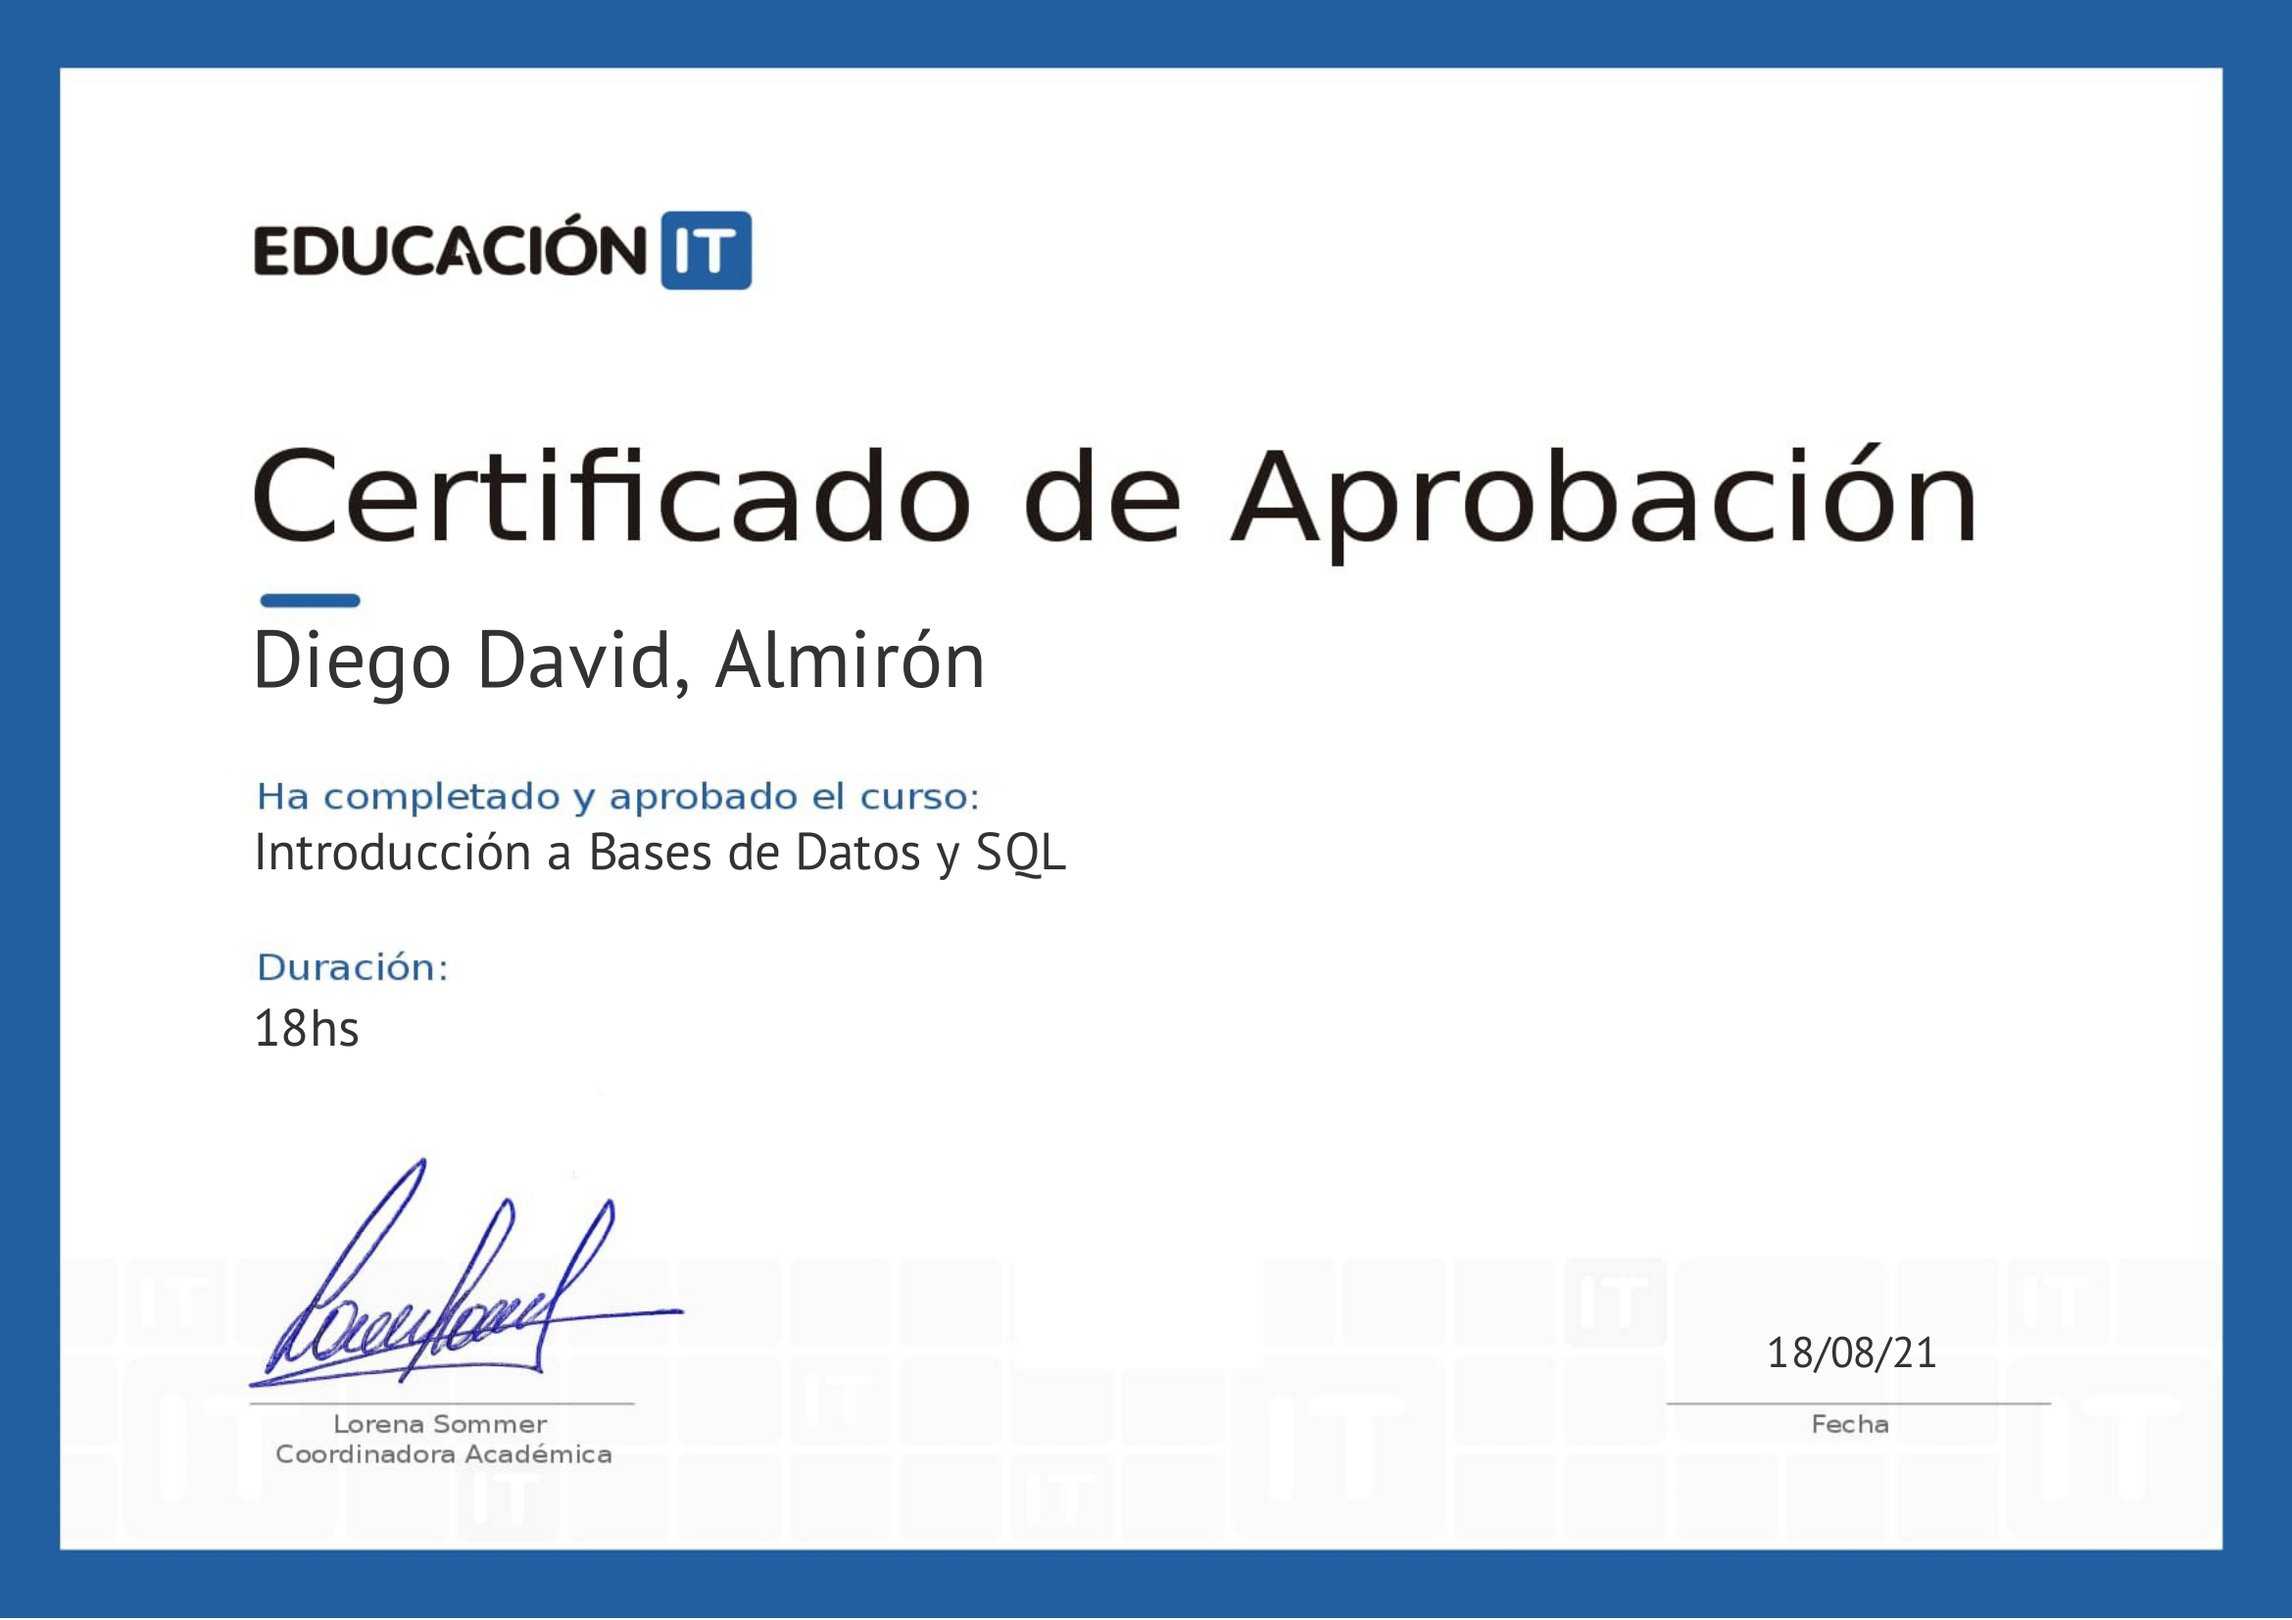
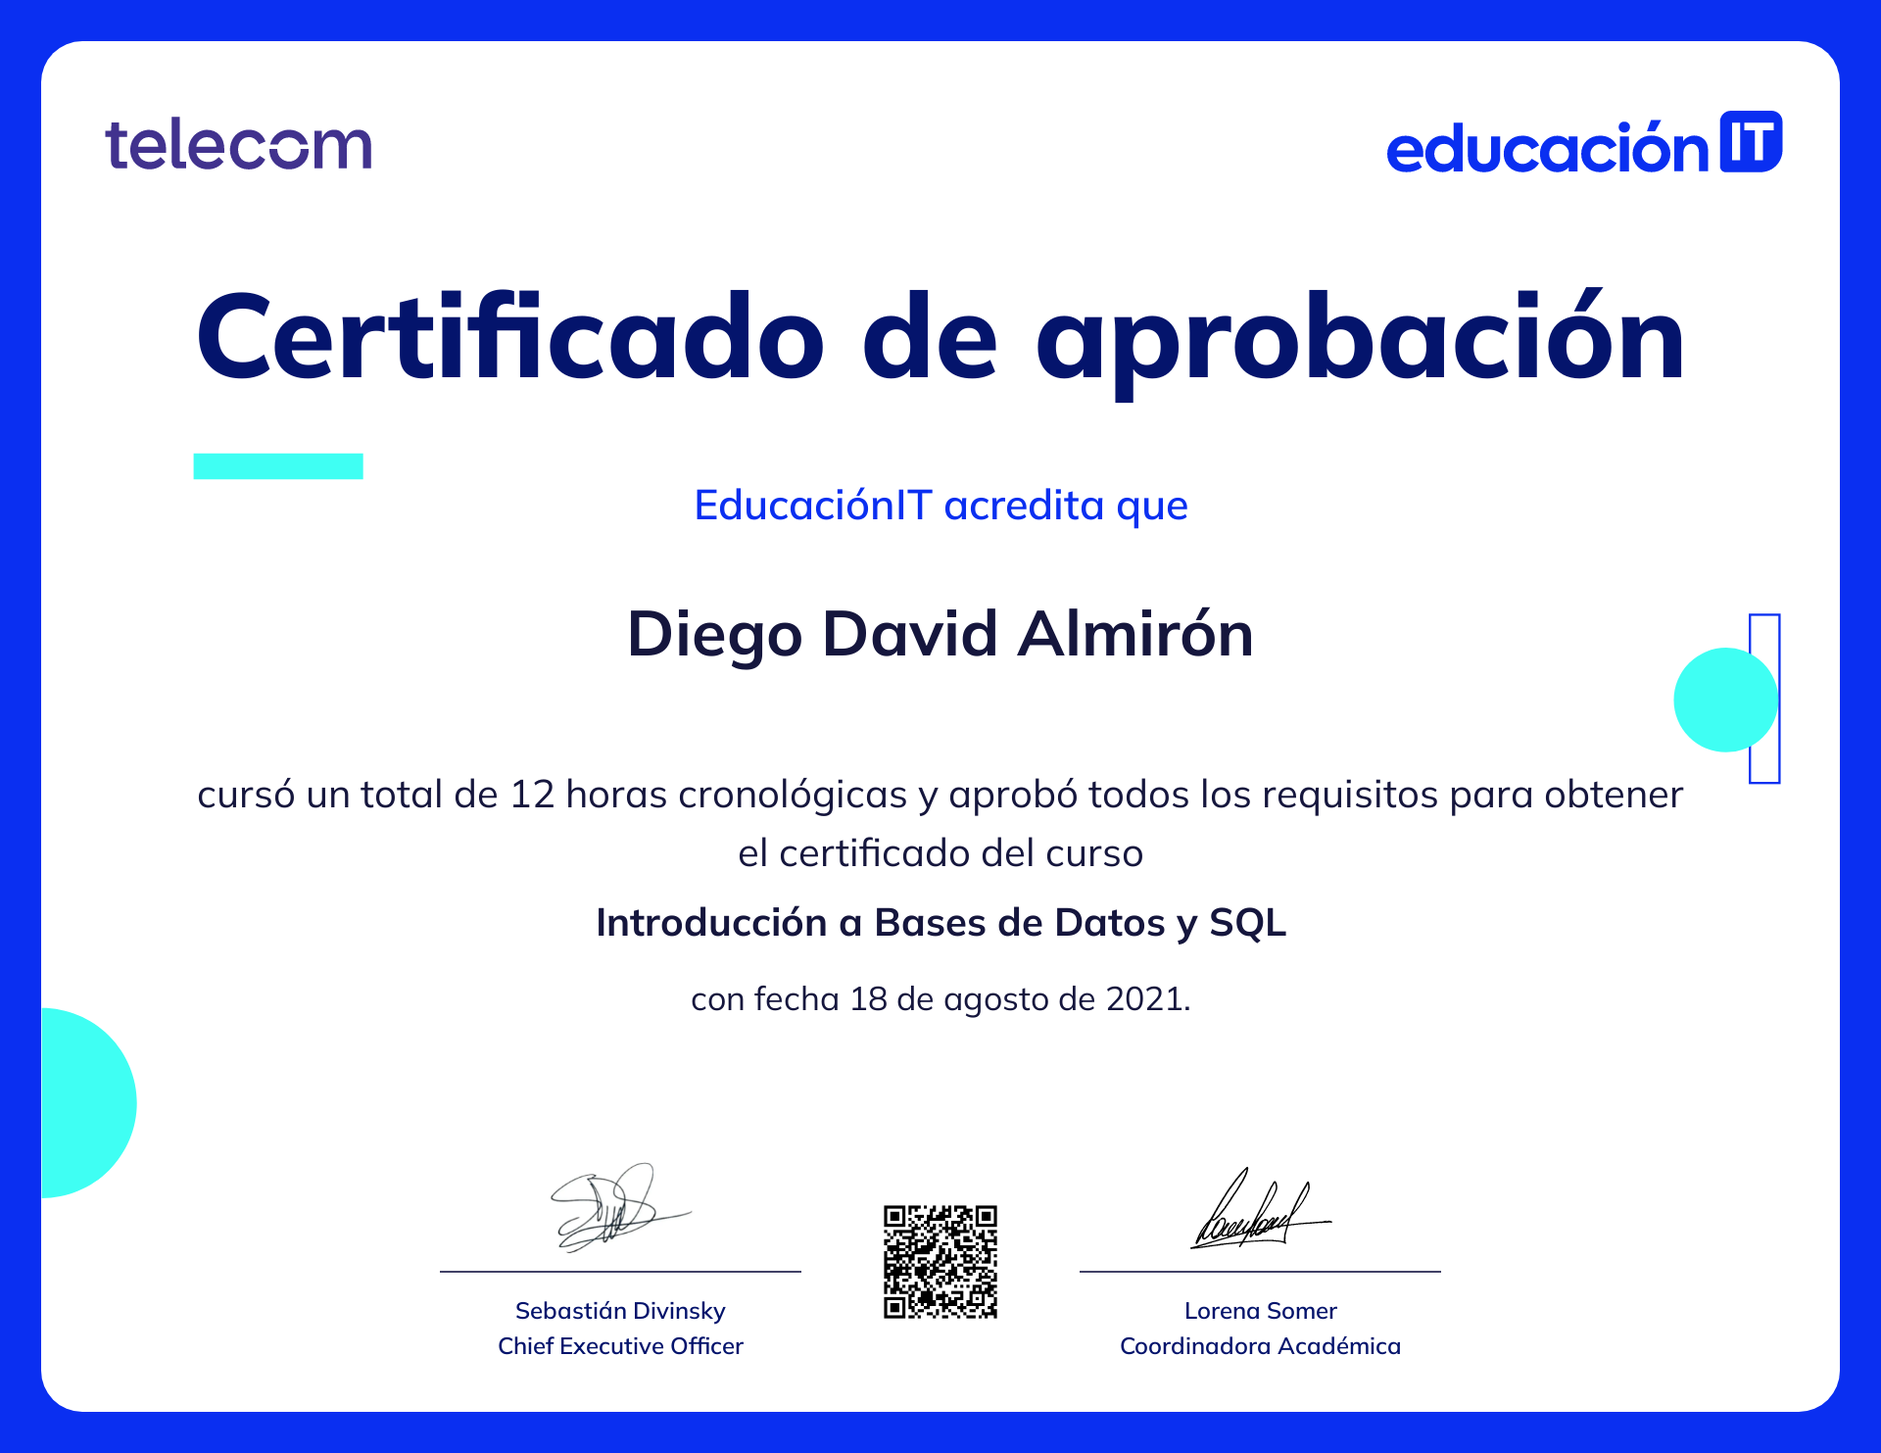
certificados actualizados

diff --git a/index.html b/index.html
@@ -123,10 +123,16 @@
                         <hr style="opacity: 1;">
                         <div class="row">
                           <div class="col-sm-4 d-grid">
+                            <button class="btn btn-dark btn-block m-2" onclick="Vue()" style="background-color: rgb(34, 3, 70);"> VueJS</button>
+                          </div>
+                          <div class="col-sm-4 d-grid">
                             <button class="btn btn-dark btn-block m-2" onclick="yoProgramo()" style="background-color: rgb(34, 3, 70);"> #yoProgramo</button>
                           </div>
                           <div class="col-sm-4 d-grid">
                             <button class="btn btn-dark btn-block m-2" onclick="seProgramar()" style="background-color: rgb(34, 3, 70);"> #seProgramar</button>
+                          </div>
+                          <div class="col-sm-4 d-grid">
+                            <button class="btn btn-dark btn-block m-2" onclick="habBlandas()" style="background-color: rgb(34, 3, 70);"> Habilidades Blandas</button>
                           </div>
                           <div class="col-sm-4 d-grid">
                             <button class="btn btn-dark btn-block m-2" onclick="fullStackJava()" style="background-color: rgb(34, 3, 70);"> FullStack Java</button>
@@ -608,6 +614,7 @@
                           <h6>LIBRERÍAS</h6>
                           <span class="badge rounded-pill bg-dark">jquery</span>
                           <span class="badge rounded-pill bg-dark">ReactJS</span>
+                          <span class="badge rounded-pill bg-dark">VueJS</span>
                           <span class="badge rounded-pill bg-dark">Bootstrap</span>
                       </div>
                     </div>

diff --git a/js/funciones.js b/js/funciones.js
@@ -47,6 +47,17 @@ function masDatos(){
 
 /* Funciones de diplomas */
 
+function Vue() {
+  Swal.fire({
+  title: "#yoProgramo",
+  imageUrl: "images/certificados/VueJS Certificado/Certificado-Vue.JS-EducaciónIT.png",
+  width: 800,
+  imageWidth: 800,
+  confirmButtonColor: "rgb(34, 3, 70)"
+  
+  });
+}
+
 function yoProgramo() {
     Swal.fire({
     title: "#yoProgramo",
@@ -74,6 +85,17 @@ function yoProgramo() {
     Swal.fire({
     title: " Desarrollo Fullstack con Java",
     imageUrl: "images/certificados/CertificadoDigitalers2021/CertificadoDigitalers2021-1.png",
+    width: 800,
+    imageWidth: 800,
+    confirmButtonColor: "rgb(34, 3, 70)"
+    
+    });
+  }
+
+  function habBlandas() {
+    Swal.fire({
+    title: " Desarrollo Fullstack con Java",
+    imageUrl: "images/certificados/Habilidades Blandas Certificado/Certificado-Habilidades-Blandas-EducaciónIT.png",
     width: 800,
     imageWidth: 800,
     confirmButtonColor: "rgb(34, 3, 70)"
@@ -298,6 +320,7 @@ function yoProgramo() {
               <div class="card-body">
                 <p class="bi bi-award-fill"> Título:<span class="text-secondary"> Analista Programador Universitario</span></p>
                 <p class="bi-calendar"> Finalización:<span class="text-secondary"> Jul - 2024</span></p>
+                <p class=""> Diploma:<span class="text-secondary"> En trámite</span></p>
                 <img class="img-fluid" src="images/instituciones/historia_academica-1.png" alt="">
               </div>
               <div class="card-footer">
